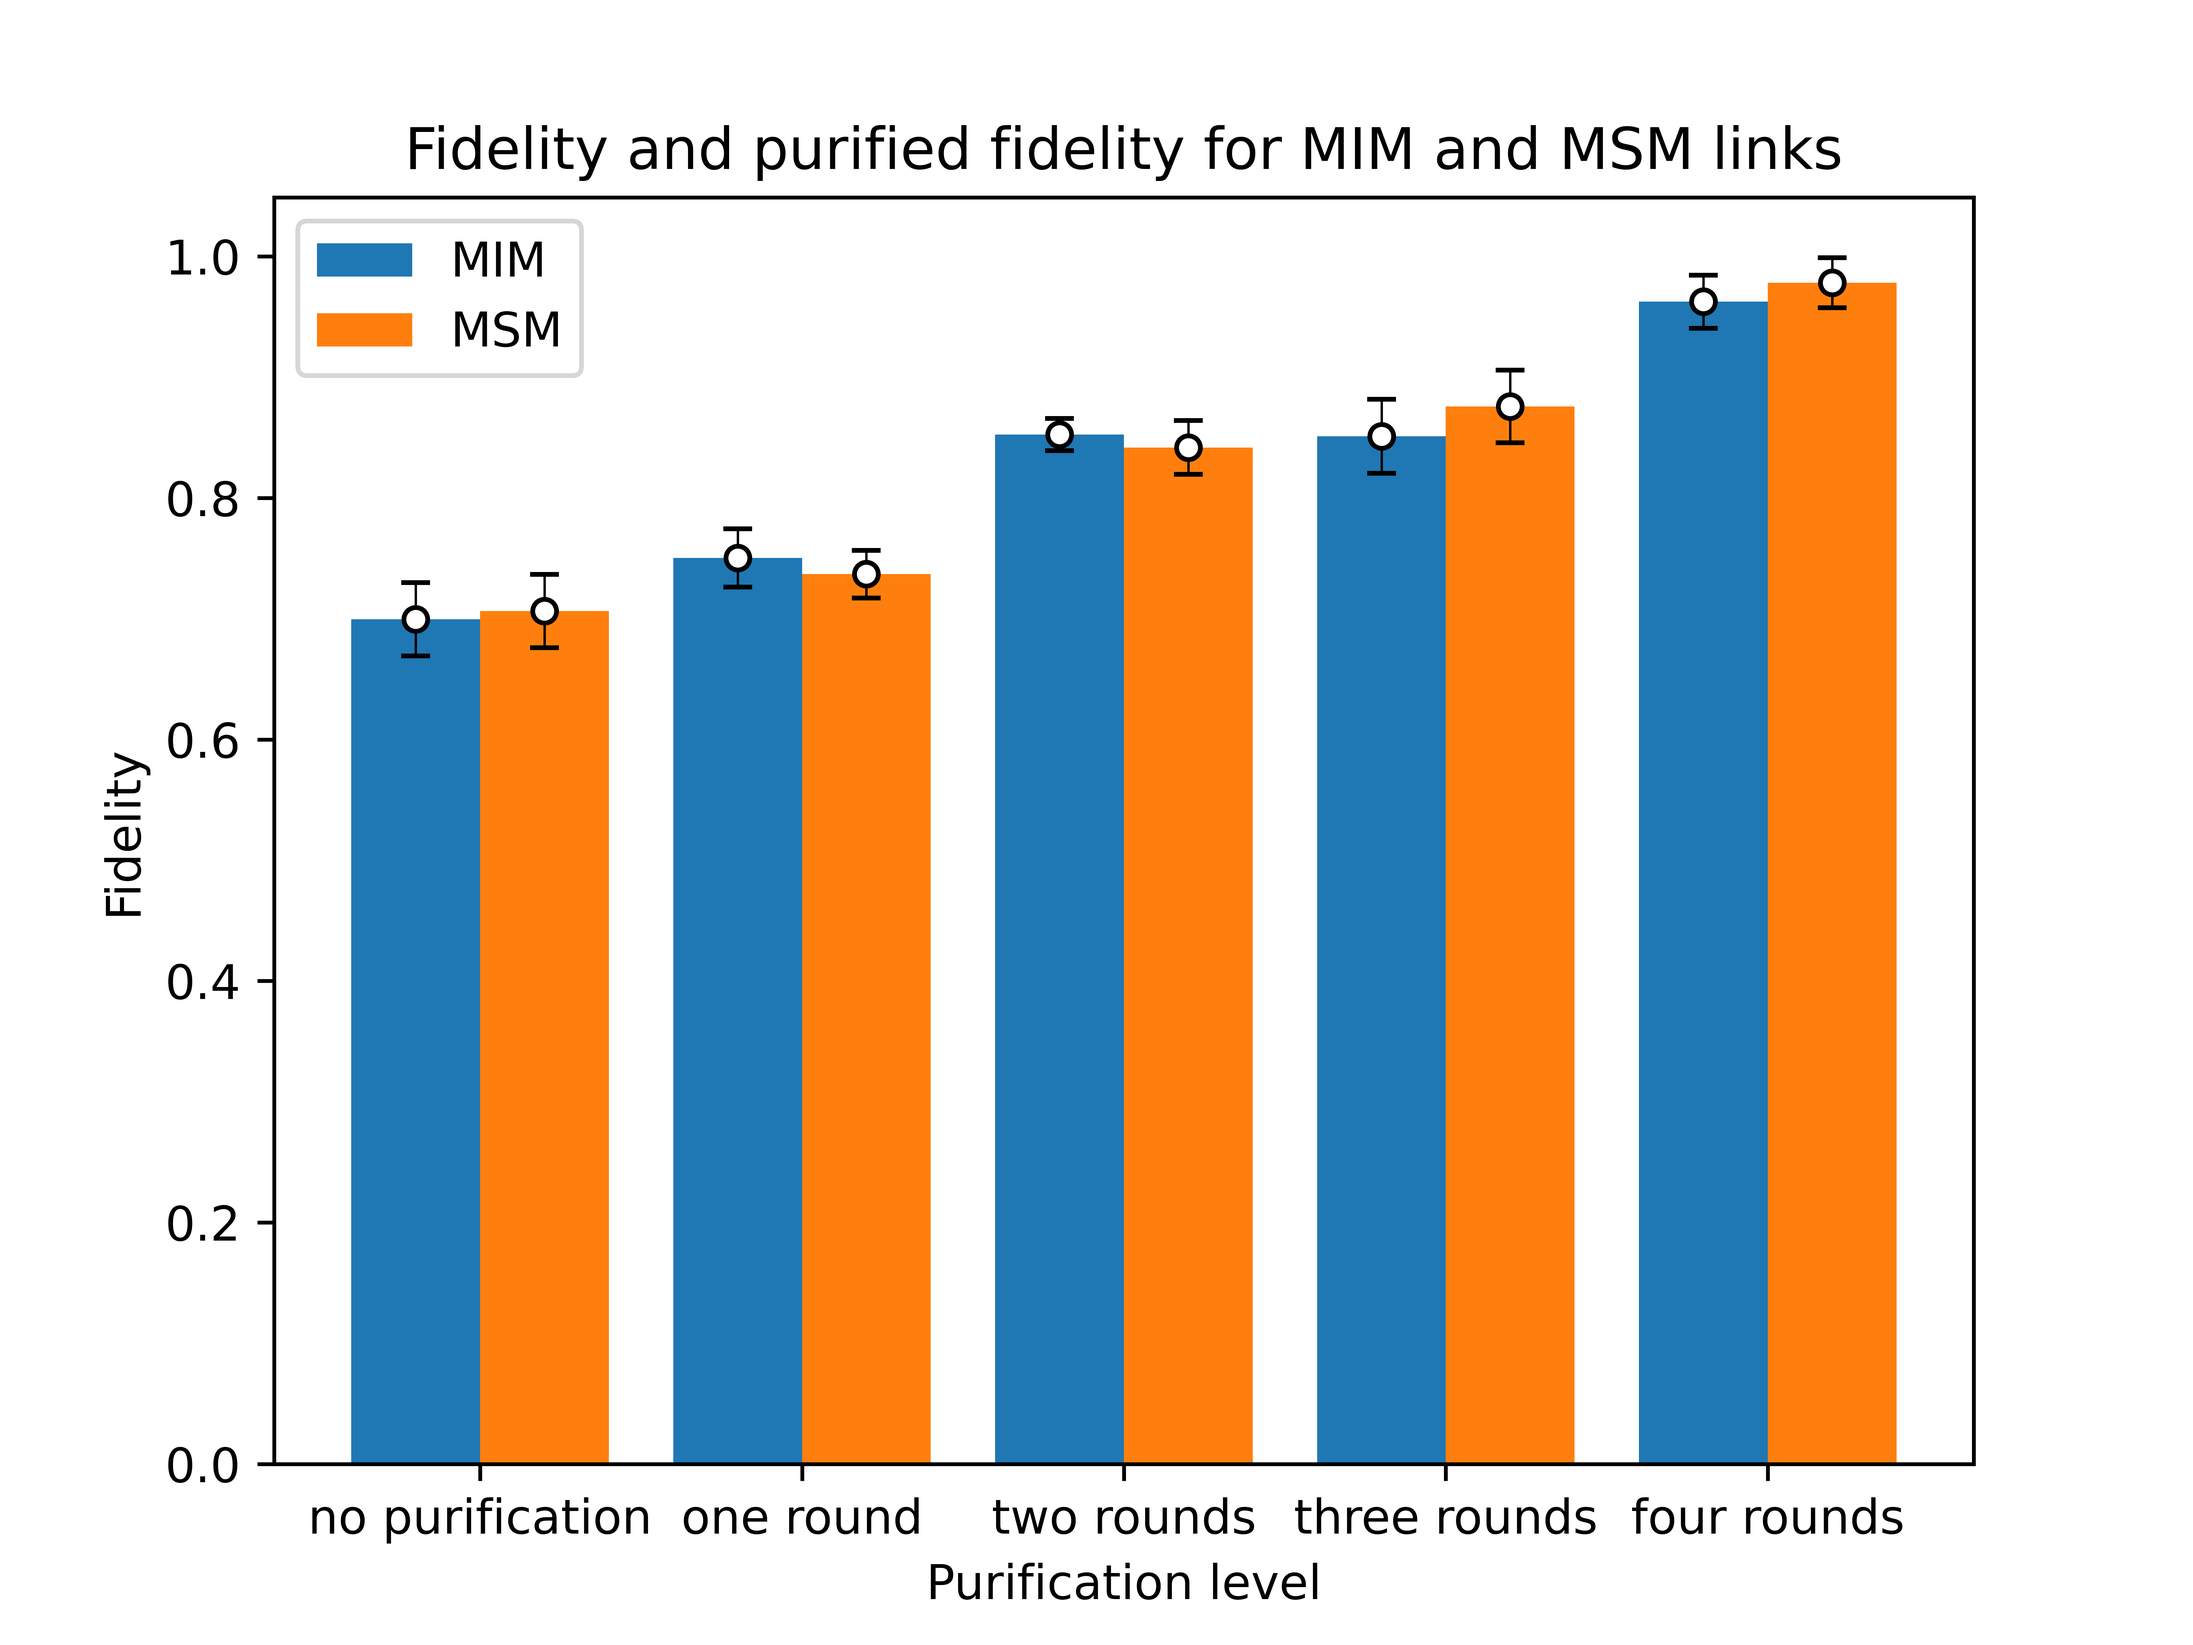
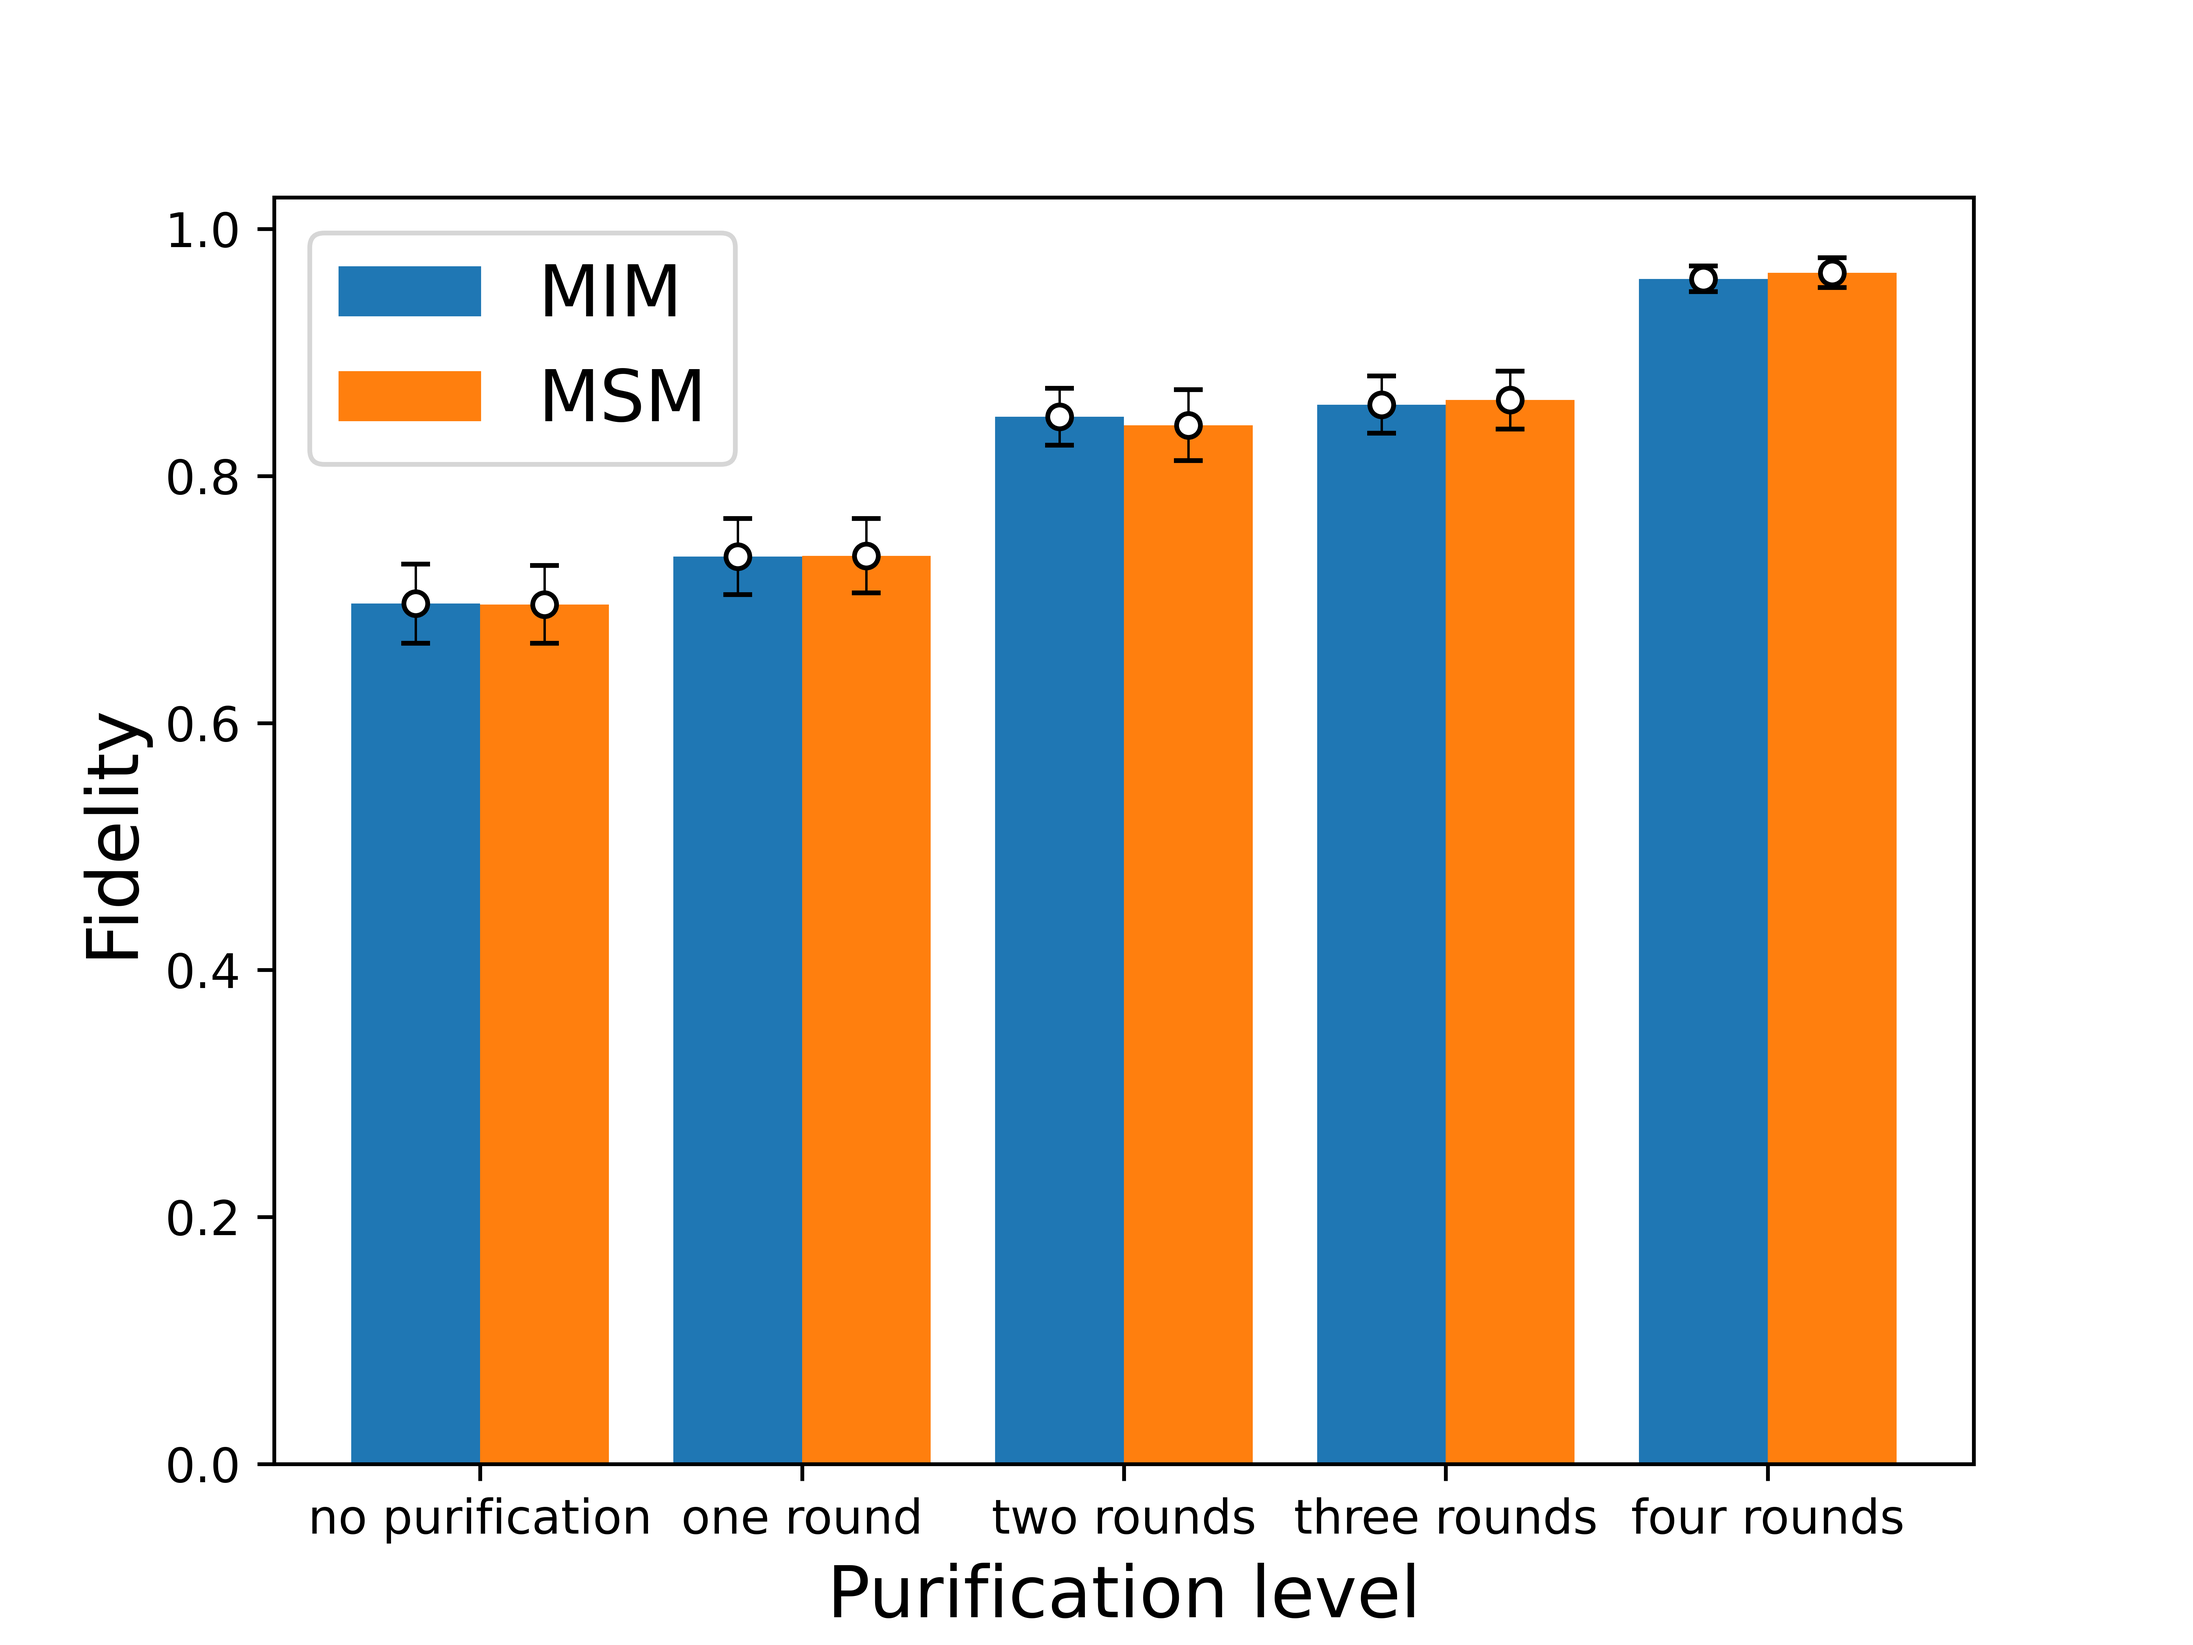
add simulation of fidelity (100) cases

diff --git a/quisp/fidelity_bp.py b/quisp/fidelity_bp.py
@@ -42,7 +42,7 @@ plt.bar(xaxis+0.2, ymsm, label='MSM', width=0.4)
 plt.errorbar(xaxis-0.2 , ymim, yerr=emim, fmt='.', capsize=3,markersize=10,ecolor='black',elinewidth=0.5,markeredgecolor = 'black', color='w')
 plt.errorbar(xaxis+0.2, ymsm, yerr=emsm, fmt='.', capsize=3,markersize=10,ecolor='black',elinewidth=0.5,markeredgecolor = 'black', color='w')
 
-plt.xticks(xaxis, x, fontsize=11)
+plt.xticks(xaxis, x, fontsize=10)
 # Add labels and legend
 plt.xlabel('Purification level', fontsize=15)
 plt.ylabel('Fidelity', fontsize=15)
